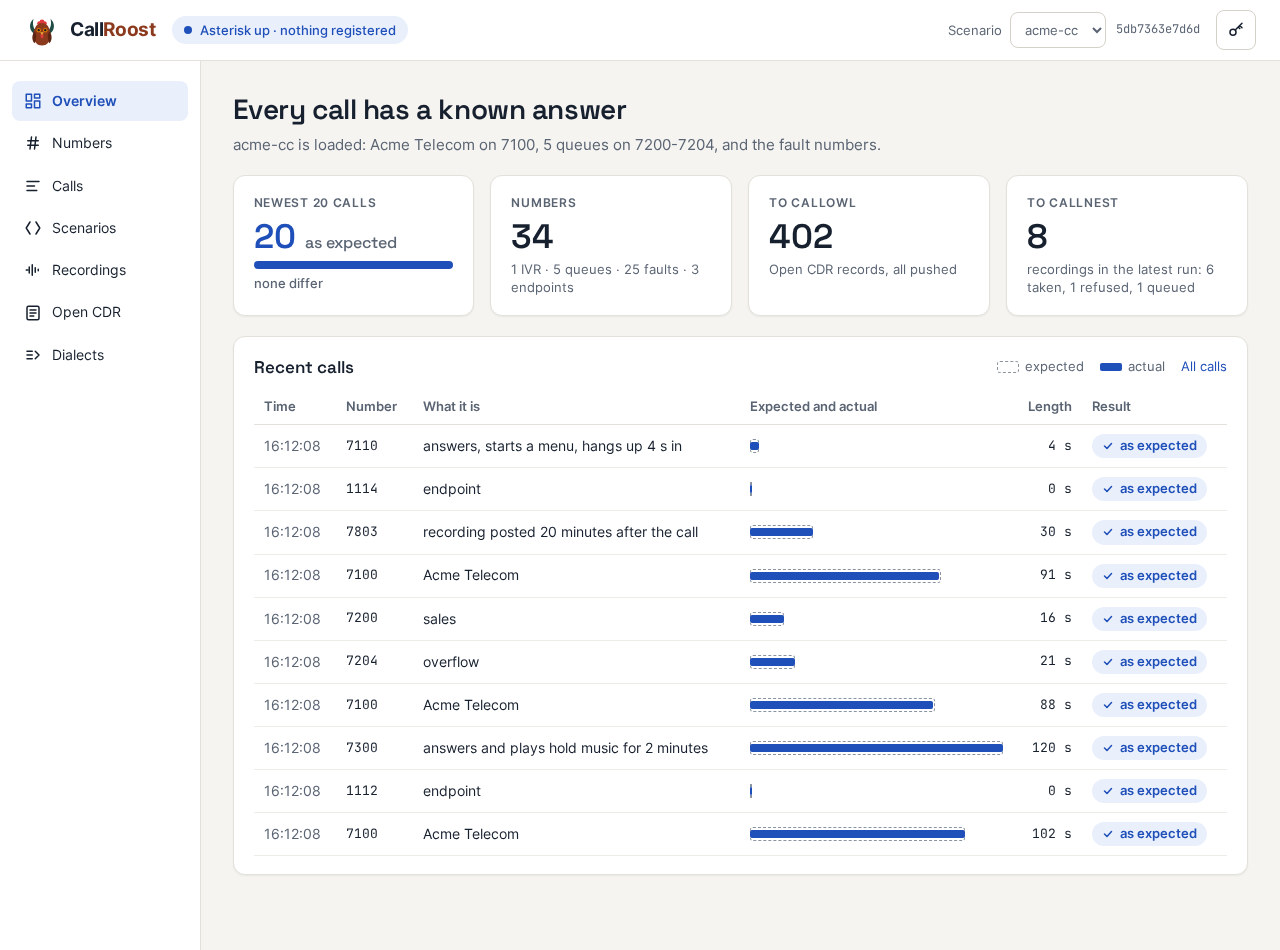
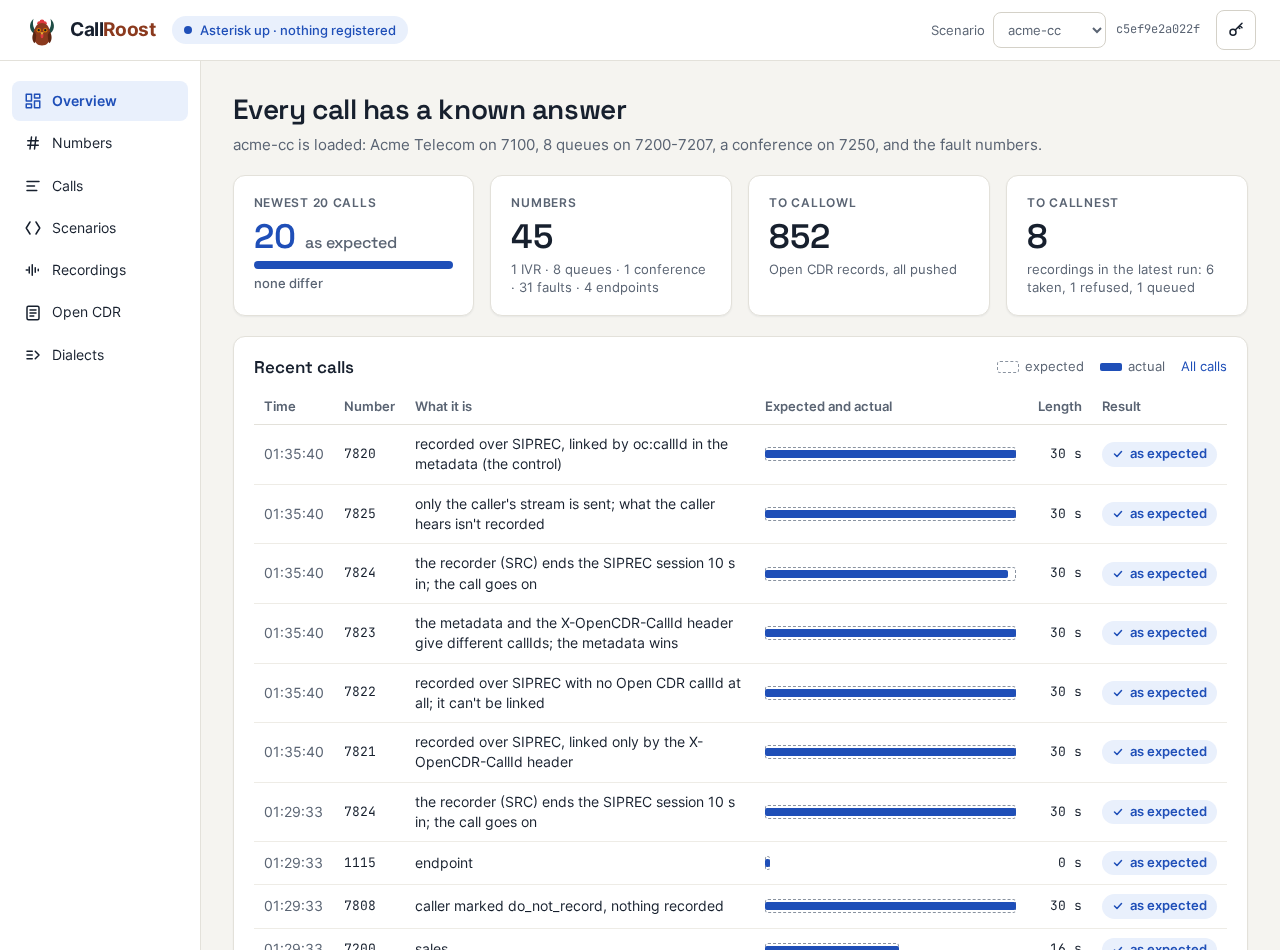
CallRoost: new hero, attended transfer and SIPREC screenshots from the 9 November run

diff --git a/callroost/README.md b/callroost/README.md
@@ -8,7 +8,7 @@ It started as a simple test harness for my own tools: a few IVRs for CallRaven's
 
 ![CallRoost's overview: the newest calls set against what was expected, the numbers, and what reached CallOwl and CallNest](images/01-overview.png)
 
-*After the 8 November run of all 47 reference calls on the contact-centre scenario: the newest 20 all as expected, 402 Open CDR records all with CallOwl, and the latest recording run, where CallNest took six recordings, refused 7804's as it should, and 7803's waits out its 20 minutes.*
+*After the 9 November run of all 58 reference calls on the contact-centre scenario: the newest 20 all as expected, among them the six SIPREC numbers checked against what CallNest holds; 852 Open CDR records, all with CallOwl; and the latest recording run, where CallNest took six recordings, refused 7804's as it should, and 7803's waits out its 20 minutes.*
 
 ---
 
@@ -51,7 +51,7 @@ Each call in the log is set against its prediction. Expected is drawn as a dashe
 
 *Four calls placed to the same queue at once. This one waited 12 s for the agent, who was still ringing for another caller; everything after that ran exactly to plan, 12 s late. CallRoost says so, rather than listing five unrelated errors.*
 
-The full set of reference calls (every fault number, every IVR path, every queue, the endpoints and a number that doesn't exist) runs with one command, `checkcdr`. On 8 November all 47 matched, row for row; later that day, with the newer contact-centre and SIPREC numbers added, all 58 did.
+The full set of reference calls (every fault number, every IVR path, every queue, the endpoints and a number that doesn't exist) runs with one command, `checkcdr`. On 8 November all 47 matched, row for row. With the newer contact-centre and SIPREC numbers added, the set is 58 calls, and on 9 November all 58 matched.
 
 ![The call log after the 8 November run: every call set against its prediction](images/10-calls.png)
 
@@ -96,7 +96,11 @@ Ten numbers, 7800-7809, each answer and play 30 seconds of known audio. CallRoos
 
 Queues of virtual agents: each rings for a set time (or never), answers, says its line, talks, then hangs up or blind-transfers the caller by pressing ## and a number, as a person on a FreePBX phone would. The transfer is a real one, so the CDRs split exactly where a real PBX's do. Agents that never answer, failover to the next agent, a queue that gives up and sends the caller elsewhere: each has its legs predicted, and each matched Asterisk to the second.
 
-The harder cases are there too. In a ringall queue every agent rings at once and the first to answer gets the caller, while the others' legs end unanswered. An agent can put the caller on hold, with hold music and hold and resume events in the call record. An attended transfer is the agent pressing *2 and a number, talking to whoever answers, then hanging up, which leaves a real attended transfer and the caller IDs Asterisk rewrites along the way. In a conference, agents are brought in as the caller joins and leave one by one. All of these are predicted leg by leg, and on 8 November the standard set of 51 calls matched in every CDR row and Open CDR record.
+The harder cases are there too. In a ringall queue every agent rings at once and the first to answer gets the caller, while the others' legs end unanswered. An agent can put the caller on hold, with hold music and hold and resume events in the call record. An attended transfer is the agent pressing *2 and a number, talking to whoever answers, then hanging up, which leaves a real attended transfer and the caller IDs Asterisk rewrites along the way. In a conference, agents are brought in as the caller joins and leave one by one. All of these are predicted leg by leg, and each matched in every CDR row and Open CDR record.
+
+![Queue 7207: Frank answers, consults billing with *2 7203, and hangs up, leaving the caller with Dave](images/11-attended-transfer.png)
+
+*An attended transfer on a real call: seven CDR rows, every one where it was predicted. Frank talks to the caller, dials billing, waits while Dave answers, then hangs up; the caller's queue leg carries on, bridged to Dave.*
 
 ![Queue 7201: the legs a call should leave when Bob answers and transfers the caller to billing, where Dave answers](images/05-queue-legs.png)
 
@@ -117,7 +121,11 @@ Asterisk has no SIPREC client, so CallRoost has its own. It listens in on each d
 | 7824 | the recording session ends 10 s in |
 | 7825 | one stream only |
 
-For each, CallRoost says what the recorder should end up holding. All six matched CallNest on the first live run. This gives CallNest a second, independent SIPREC source beside CallRaven.
+For each, CallRoost says what the recorder should end up holding. All six matched CallNest on the first live run, and again on 9 November.
+
+![7823: the call, its CDR, and what CallNest should hold: linked by the metadata, with a correlation conflict](images/12-siprec-fault.png)
+
+*7823 sends two different call IDs, one in the metadata and one in a header. CallNest should link the recording by the metadata and record the conflict.* This gives CallNest a second, independent SIPREC source beside CallRaven.
 
 ---
 
